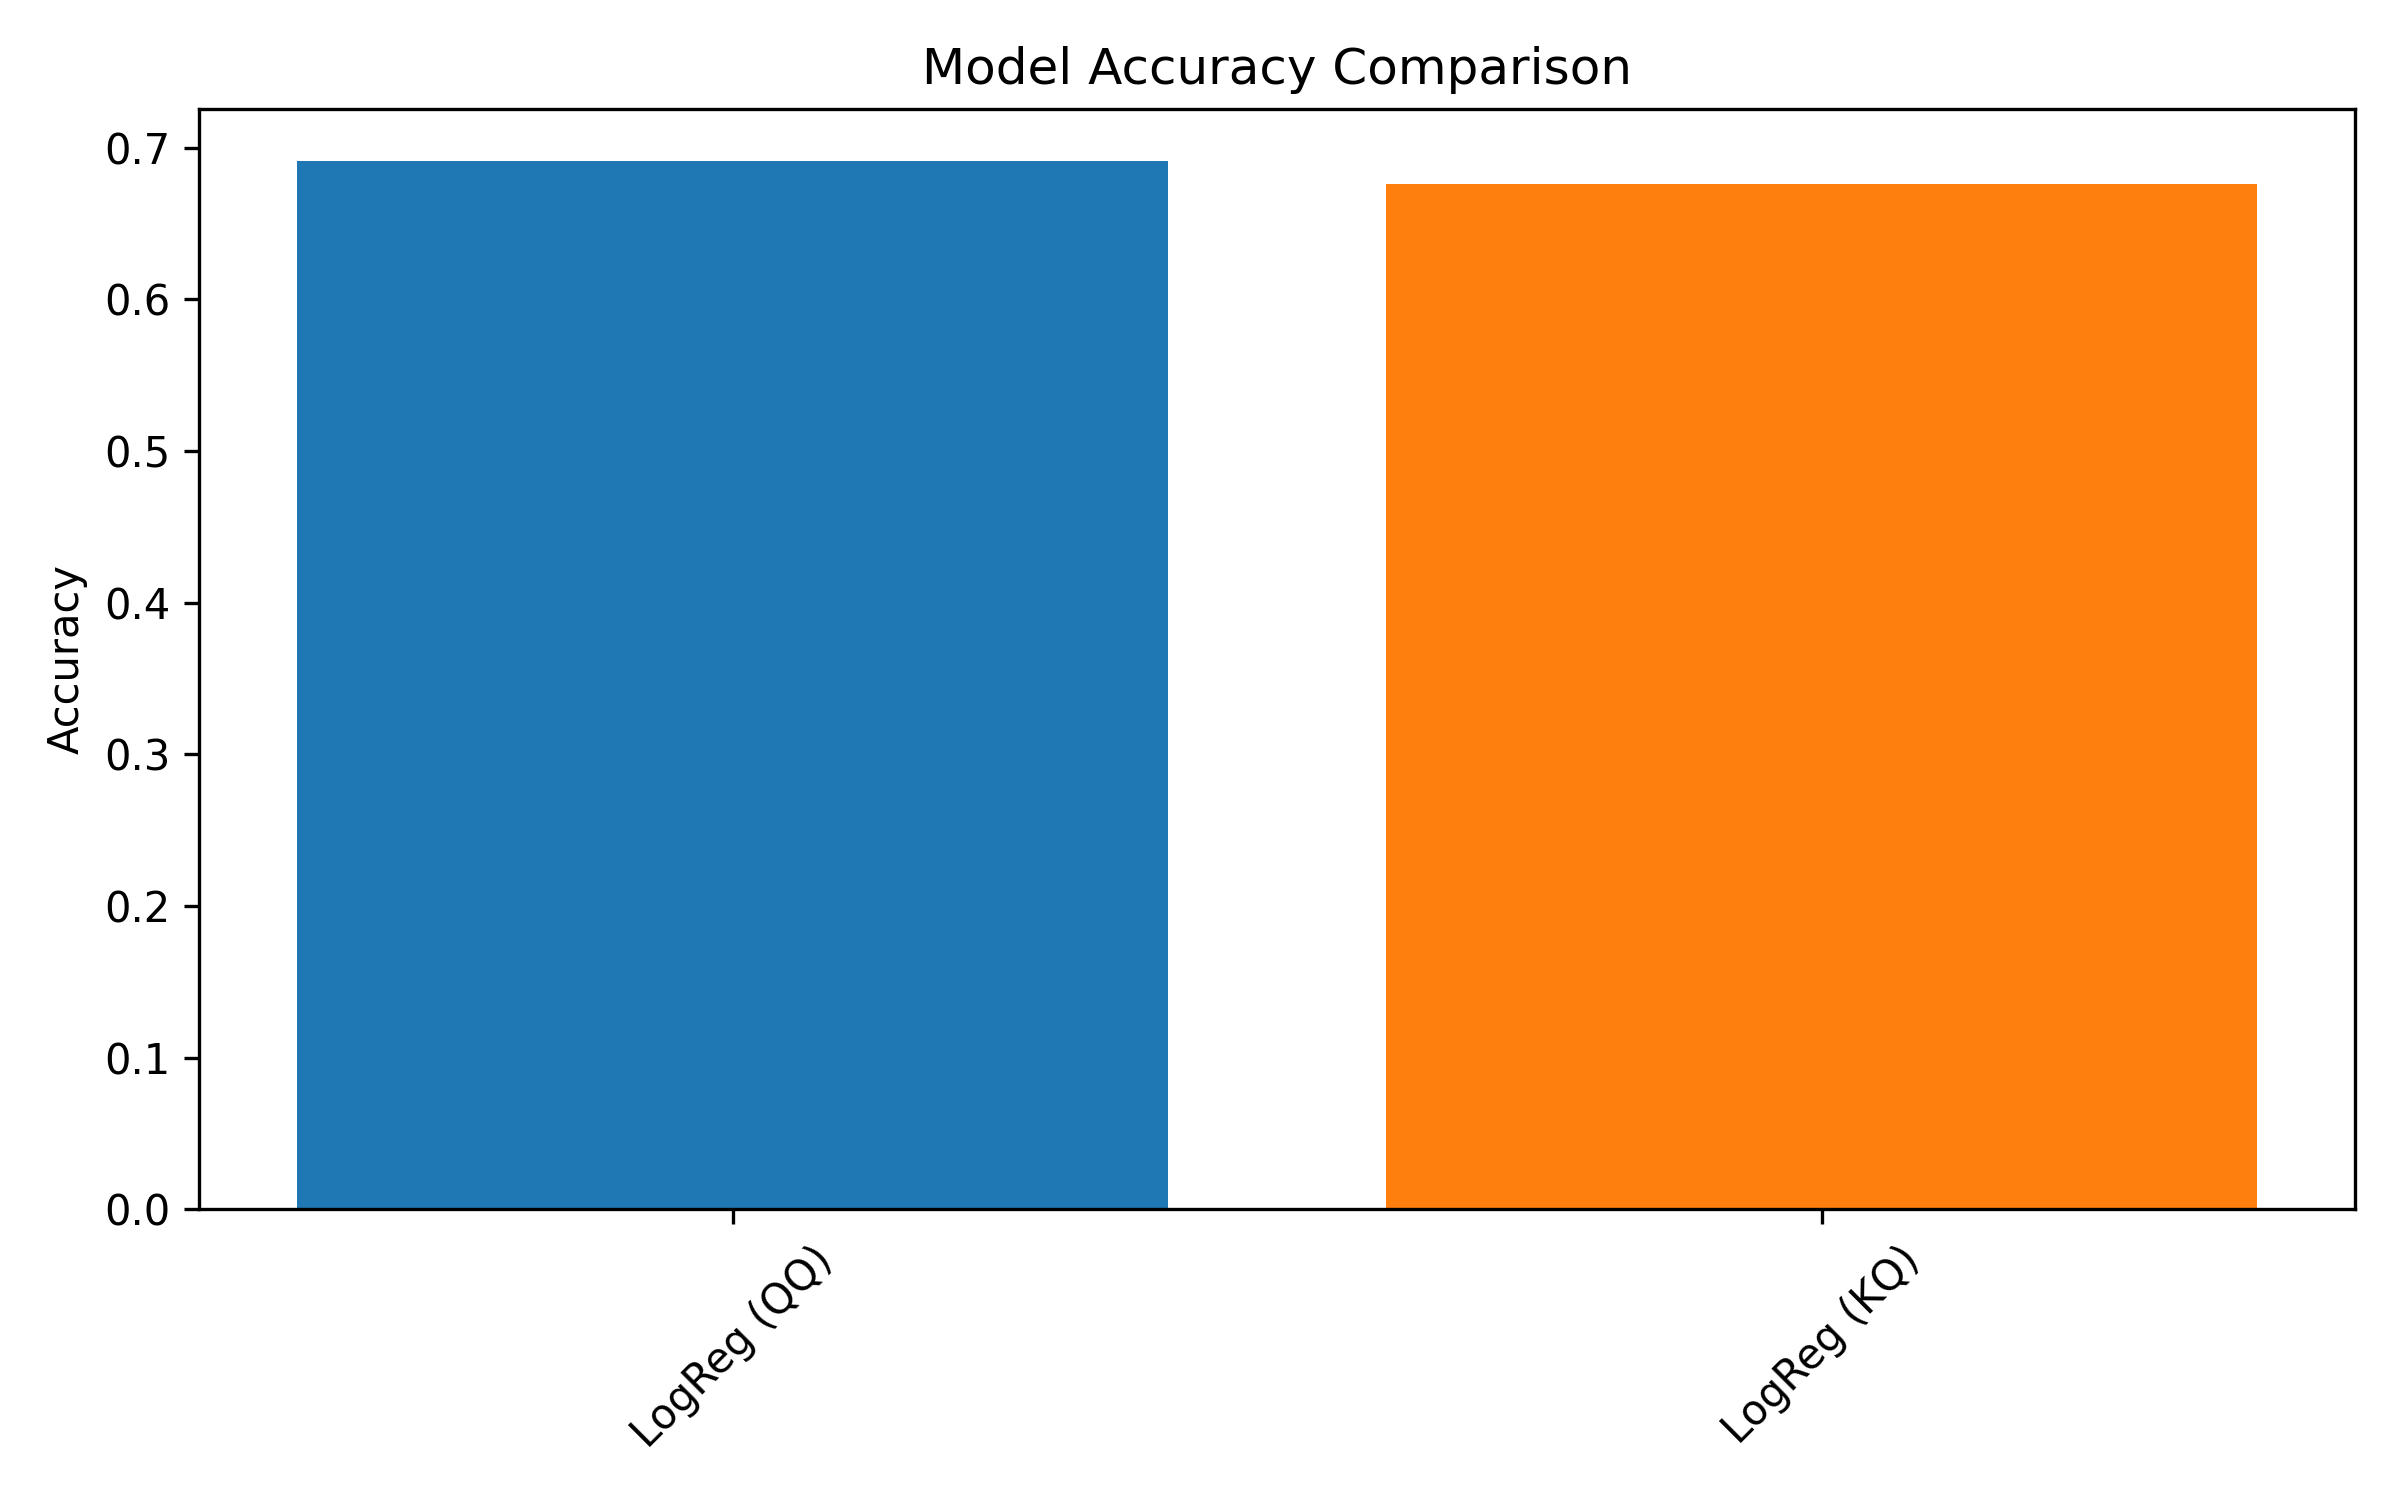
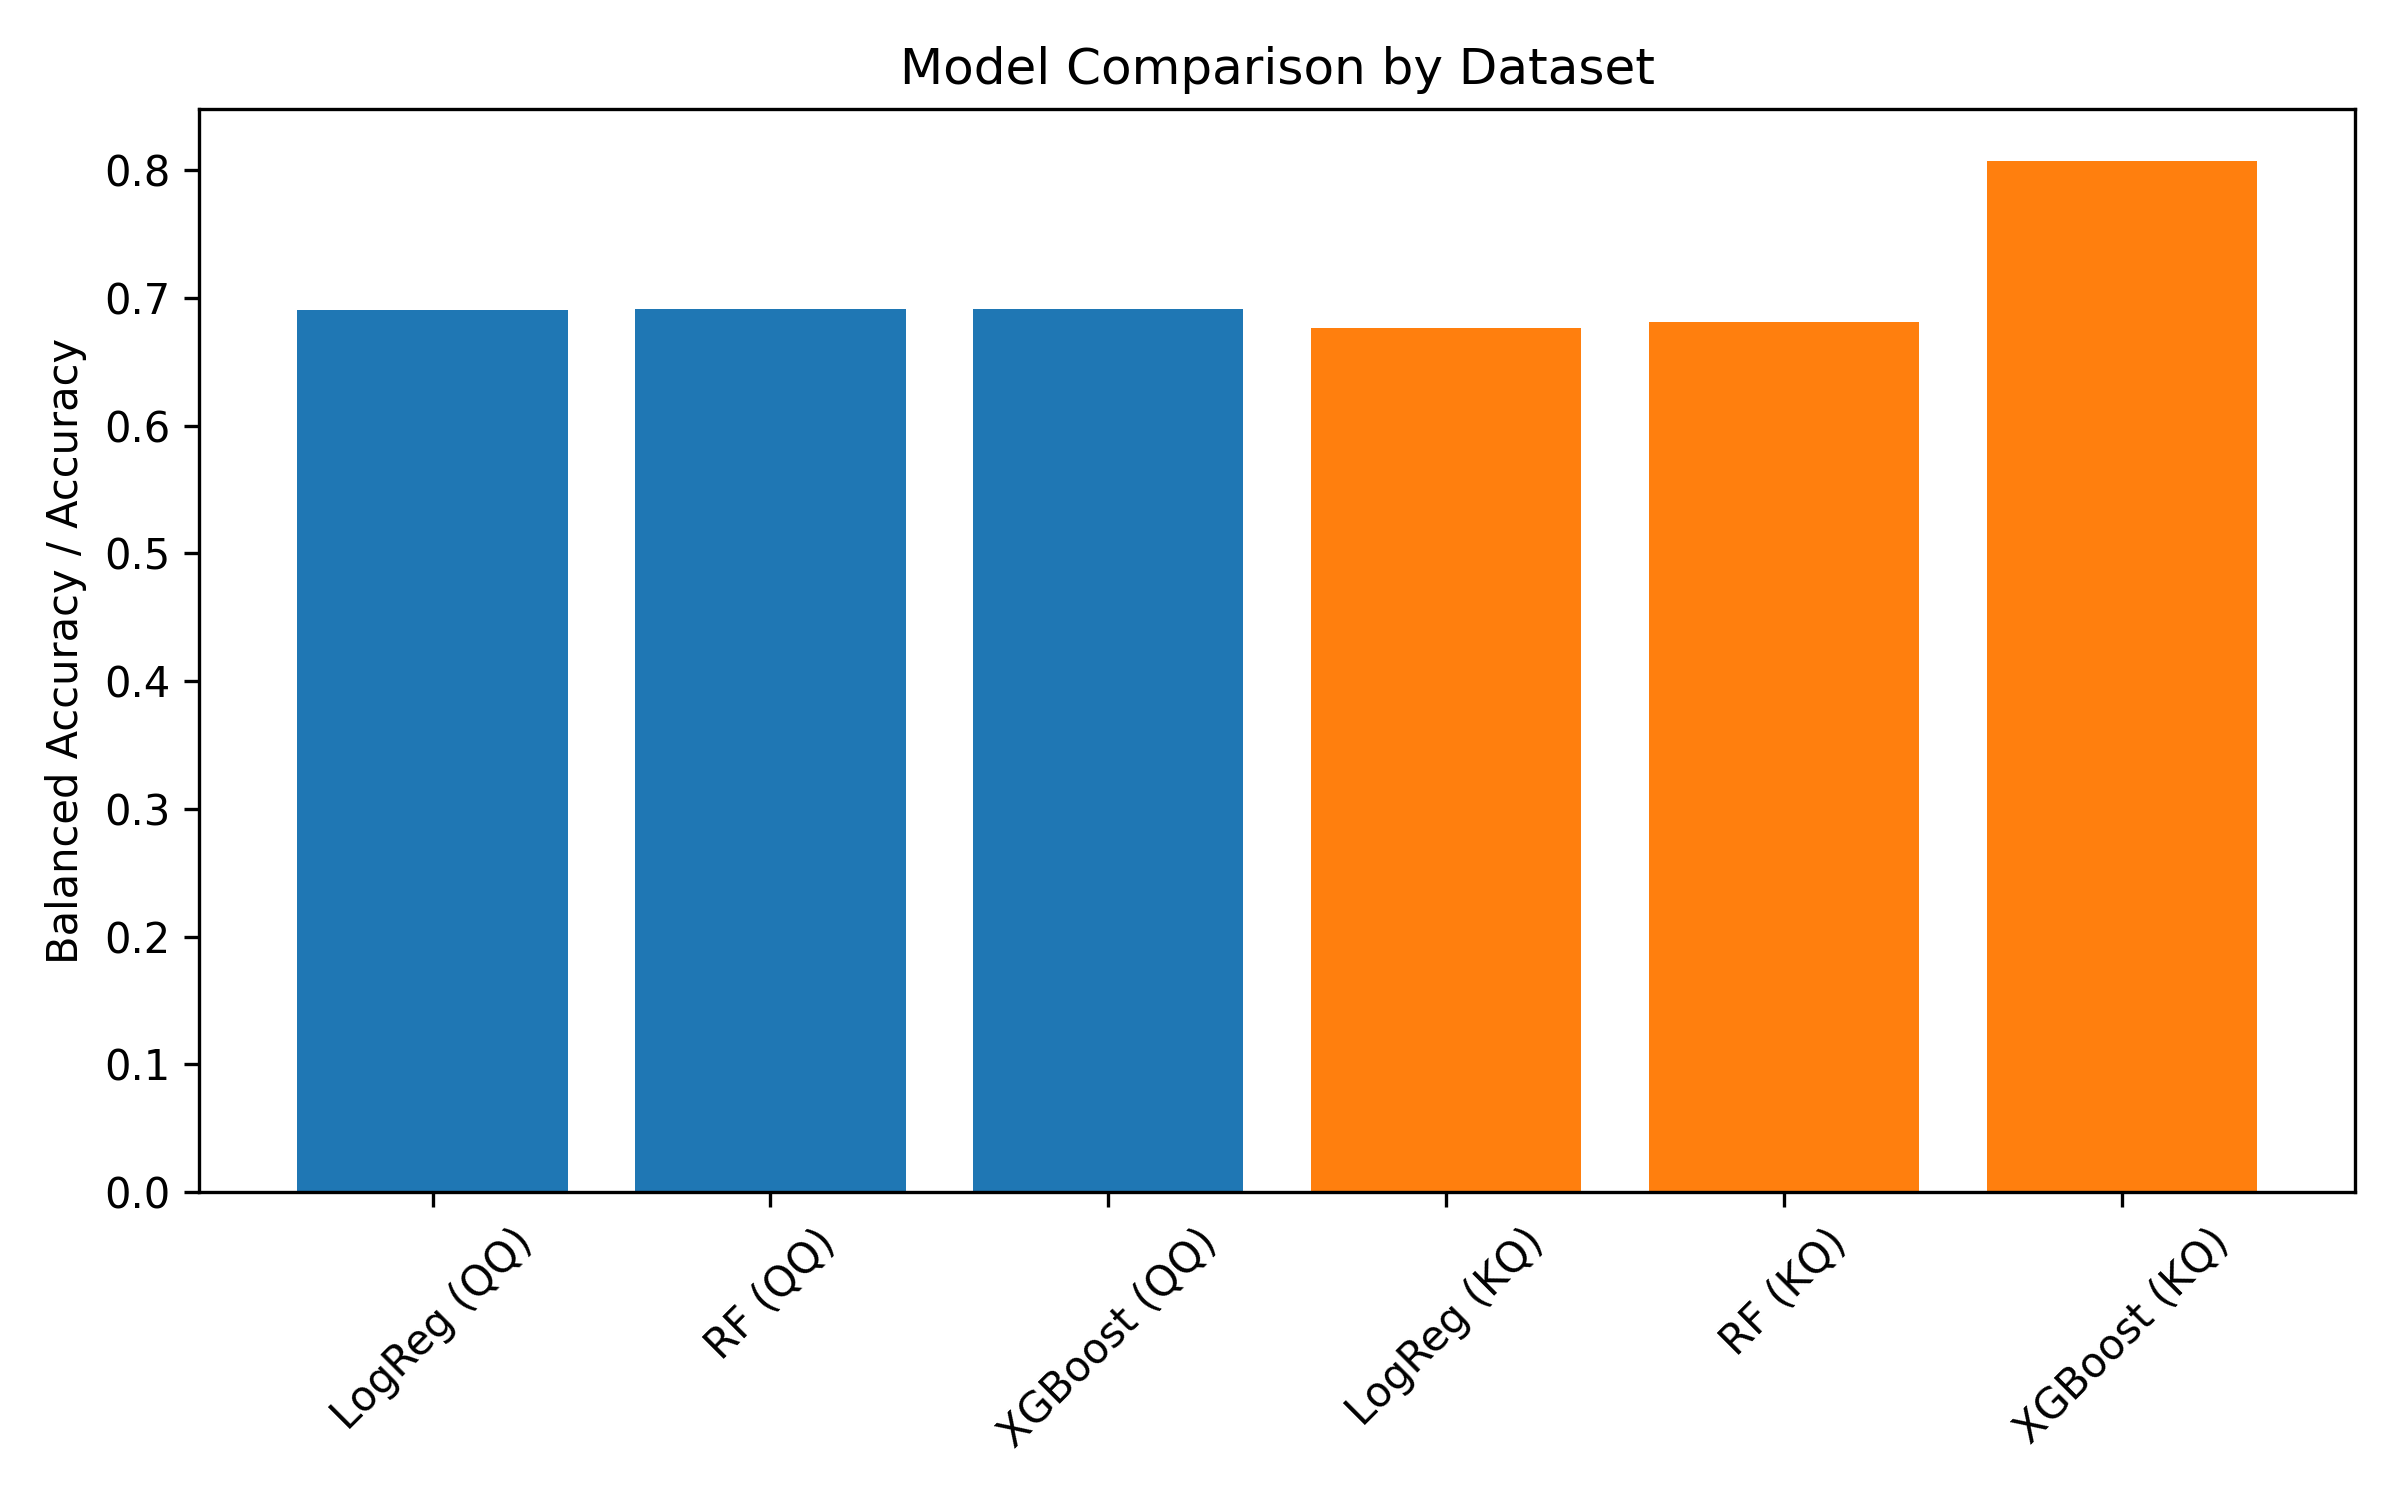
compared models

diff --git a/compare_models.py b/compare_models.py
@@ -1,65 +1,140 @@
+# import json
+# import pandas as pd
+# import matplotlib.pyplot as plt
+# from pathlib import Path
+
+# RESULT_FILES = {
+#     "Random Forest QQ": "rf_results_QQ.json",
+#     "Random Forest KQ": "rf_results_KQ.json",
+#     "XGBoost QQ": "qq_xgb_ConclusionClass/metrics.json",
+#     "XGBoost KQ": "kq_xgb_ConclusionClass/metrics.json",
+#     "LogReg QQ": "logreg_results_QQ.json",
+#     "LogReg KQ": "logreg_results_KQ.json"
+# }
+
+# rows = []
+
+# for name, path in RESULT_FILES.items():
+#     if not Path(path).exists():
+#         print(f"Skipping missing file: {path}")
+#         continue
+
+#     with open(path) as f:
+#         data = json.load(f)
+
+#     model, dataset = name.split()
+
+#     rows.append({
+#         "Model": model,
+#         "Dataset": dataset,
+#         "Accuracy": data["test_accuracy"],
+#         "ROC_AUC": data["roc_auc_macro"],
+#         "CV_Mean": data["cv_mean"]
+#     })
+
+# df = pd.DataFrame(rows)
+
+# print("\nModel Comparison\n")
+# print(df.sort_values(["Dataset","Accuracy"], ascending=False))
+
+# df.to_csv("model_comparison.csv", index=False)
+
+# print("\nSaved: model_comparison.csv")
+
+# # ----------- Plot -----------
+
+# plt.figure(figsize=(8,5))
+
+# for dataset in df["Dataset"].unique():
+#     subset = df[df["Dataset"] == dataset]
+
+#     plt.bar(
+#         subset["Model"] + " (" + dataset + ")",
+#         subset["Accuracy"]
+#     )
+
+# plt.ylabel("Accuracy")
+# plt.title("Model Accuracy Comparison")
+
+# plt.xticks(rotation=45)
+
+# plt.tight_layout()
+
+# plt.savefig("model_comparison_accuracy.png", dpi=300)
+
+# print("Saved: model_comparison_accuracy.png")
+
 import json
+import re
 import pandas as pd
 import matplotlib.pyplot as plt
 from pathlib import Path
 
-RESULT_FILES = {
-    "Random Forest QQ": "rf_results_QQ.json",
-    "Random Forest KQ": "rf_results_KQ.json",
-    "XGBoost QQ": "xgboost_results_QQ.json",
-    "XGBoost KQ": "xgboost_results_KQ.json",
-    "LogReg QQ": "logreg_results_QQ.json",
-    "LogReg KQ": "logreg_results_KQ.json"
-}
-
 rows = []
 
-for name, path in RESULT_FILES.items():
-    if not Path(path).exists():
-        print(f"Skipping missing file: {path}")
-        continue
-
+def load_json_result(path, model_name, dataset):
     with open(path) as f:
         data = json.load(f)
-
-    model, dataset = name.split()
-
     rows.append({
-        "Model": model,
+        "Model": model_name,
         "Dataset": dataset,
         "Accuracy": data["test_accuracy"],
         "ROC_AUC": data["roc_auc_macro"],
         "CV_Mean": data["cv_mean"]
     })
 
+def load_txt_result(path, model_name, dataset):
+    text = Path(path).read_text()
+
+    acc = re.search(r"Test balanced accuracy:\s*([0-9.]+)", text)
+    cv  = re.search(r"Best CV balanced accuracy:\s*([0-9.]+)", text)
+
+    rows.append({
+        "Model": model_name,
+        "Dataset": dataset,
+        "Accuracy": float(acc.group(1)) if acc else None,
+        "ROC_AUC": None,
+        "CV_Mean": float(cv.group(1)) if cv else None
+    })
+
+# Logistic Regression
+if Path("logreg_results_QQ.json").exists():
+    load_json_result("logreg_results_QQ.json", "LogReg", "QQ")
+if Path("logreg_results_KQ.json").exists():
+    load_json_result("logreg_results_KQ.json", "LogReg", "KQ")
+
+# Random Forest from your saved txt summaries
+if Path("rf_outputs/rf_randomsearch_results_QQ.txt").exists():
+    load_txt_result("rf_outputs/rf_randomsearch_results_QQ.txt", "RF", "QQ")
+if Path("rf_outputs/rf_randomsearch_results_KQ.txt").exists():
+    load_txt_result("rf_outputs/rf_randomsearch_results_KQ.txt", "RF", "KQ")
+
+# XGBoost JSONs if you save them
+if Path("qq_xgb_ConclusionClass/metrics.json").exists():
+    load_json_result("qq_xgb_ConclusionClass/metrics.json", "XGBoost", "QQ")
+if Path("kq_xgb_ConclusionClass/metrics.json").exists():
+    load_json_result("kq_xgb_ConclusionClass/metrics.json", "XGBoost", "KQ")
+
 df = pd.DataFrame(rows)
 
 print("\nModel Comparison\n")
-print(df.sort_values(["Dataset","Accuracy"], ascending=False))
+print(df.sort_values(["Dataset", "Accuracy"], ascending=[True, False]))
 
 df.to_csv("model_comparison.csv", index=False)
-
 print("\nSaved: model_comparison.csv")
 
-# ----------- Plot -----------
-
-plt.figure(figsize=(8,5))
-
+# Accuracy figure
+plt.figure(figsize=(8, 5))
 for dataset in df["Dataset"].unique():
     subset = df[df["Dataset"] == dataset]
-
     plt.bar(
-        subset["Model"] + " (" + dataset + ")",
+        subset["Model"] + " (" + subset["Dataset"] + ")",
         subset["Accuracy"]
     )
 
-plt.ylabel("Accuracy")
-plt.title("Model Accuracy Comparison")
-
+plt.ylabel("Balanced Accuracy / Accuracy")
+plt.title("Model Comparison by Dataset")
 plt.xticks(rotation=45)
-
 plt.tight_layout()
-
 plt.savefig("model_comparison_accuracy.png", dpi=300)
-
 print("Saved: model_comparison_accuracy.png")
